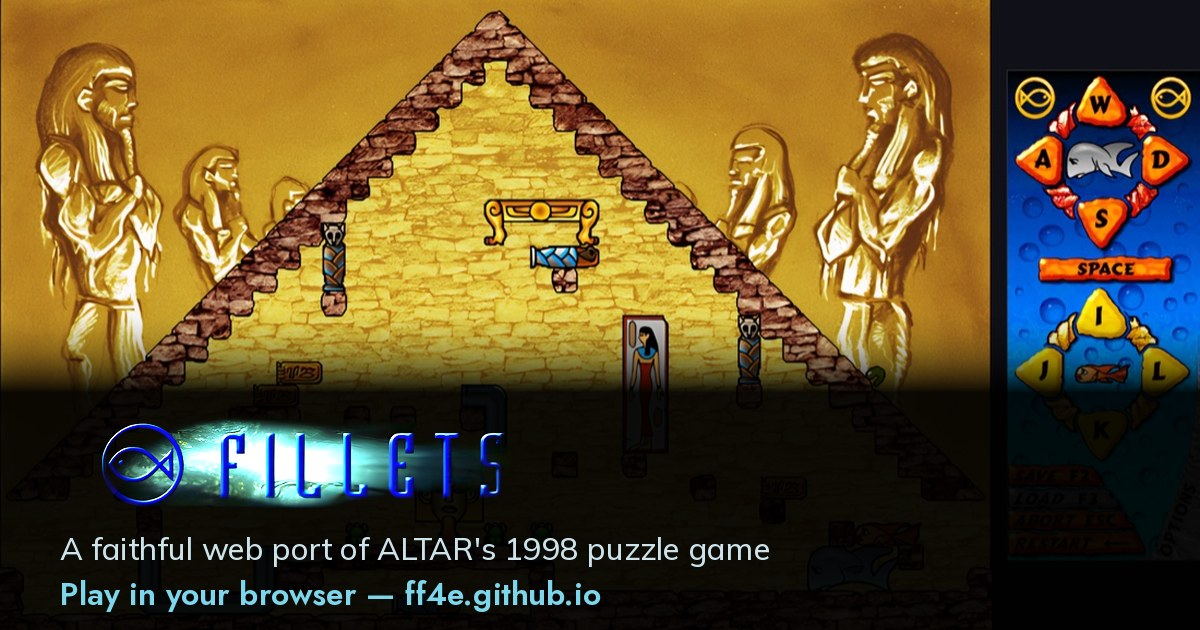
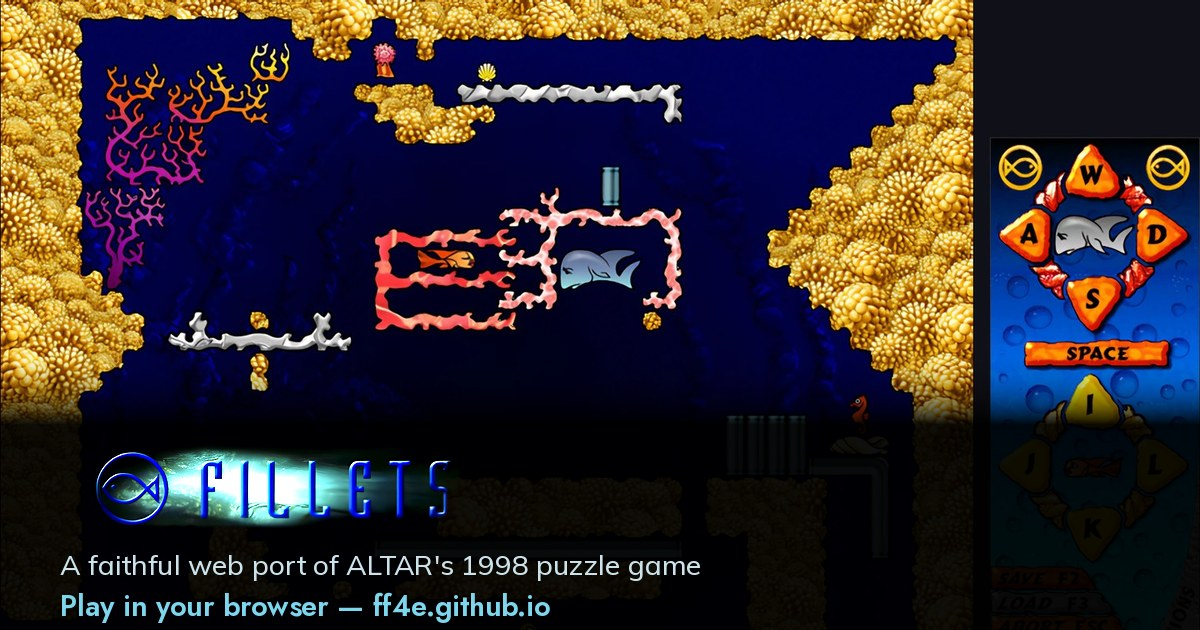
The card shows a room where you can see the fish
Mr. Cheops' House is the README's hero shot and it is the wrong picture for
this: the little fish is orange on gold brick and the big one is grey on
grey stone, so at the size a Discord or Slack embed actually renders, the
card was a nice drawing of a pyramid with no visible fish in it. The whole
job of this image is to say "two fish" in the half second before somebody
decides whether to click.

So the background is now "Imprisoned" (NCP, room 32): both fish sit
together in the middle of the room, shut inside the pink coral, against
flat navy. Nothing else in that room is fish-shaped, and nothing else is
that colour. Surveyed all 72 rooms at their spawn state to pick it.

Two consequences fall out of the room being 1.487:1 rather than the
pyramid's 1.852:1:

* ~22% of the height has to go, so the crop is anchored at the TOP rather
  than centred. The fish are in the upper middle and the bottom of the room
  is coral floor; a centred crop would spend the budget on the coral and
  push the fish down into the caption band.
* The band therefore starts lower (348 rather than 300) and the wordmark
  and captions are a little smaller, so nothing dark lands on the fish.

`docs/screenshots/room-ncp.jpg` is the source, captured the same way the
other screenshots were and downscaled to 1440 wide — still 1.2x the card,
so the card downsamples rather than stretching.

diff --git a/index.html b/index.html
@@ -24,7 +24,7 @@
     <meta property="og:image:type" content="image/jpeg" />
     <meta property="og:image:width" content="1200" />
     <meta property="og:image:height" content="630" />
-    <meta property="og:image:alt" content="Mr. Cheops' House: two fish among stone blocks inside a pyramid, beside the game's control panel." />
+    <meta property="og:image:alt" content="Imprisoned: the two fish shut inside a coral frame on the sea floor, beside the game's control panel." />
     <meta name="twitter:card" content="summary_large_image" />
     <meta name="twitter:title" content="Fish Fillets 4ever — the 1998 ALTAR puzzle game, in your browser" />
     <meta name="twitter:description" content="A faithful web port of Fish Fillets (ALTAR, 1998), ported from the original Delphi source. All 72 rooms, in a browser." />

diff --git a/tools/build-share-assets.py b/tools/build-share-assets.py
@@ -10,10 +10,11 @@ points `og:image` at the card and `<link rel=icon>` at the icons.
 
 Sources, both already in the repo and both descending from the GPL-released ALTAR data:
 
-  * docs/screenshots/room-pyramida.jpg — Mr. Cheops' House with the side panel, 1100x594.
-    Its aspect (1.852) is within 3% of the 1.91:1 the scrapers want, so it fits the card
-    by trimming 16 rows. That is the whole reason this screenshot is the background and a
-    bare room render is not: a 4:3 room letterboxed into 1.91:1 looks like a mistake.
+  * docs/screenshots/room-ncp.jpg — "Imprisoned" (NCP, room 32), 1440x969. The room is
+    chosen for ONE reason: both fish sit together in the middle of it, shut inside the pink
+    coral, against flat navy. The first version of this card used Mr. Cheops' House and the
+    fish vanished into the gold brick — at the size of a Discord embed a room is only worth
+    showing if the two fish read instantly, which is what the link is about.
   * public/cover.webp — the title-splash wordmark (fish-in-circle emblem + "FILLETS"),
     built by tools/build-cover.py from the credits logo and already committed with alpha.
     Reusing it keeps the card and the game's own splash the same mark.
@@ -35,7 +36,7 @@ from pathlib import Path
 from PIL import Image, ImageChops, ImageDraw, ImageFilter, ImageFont
 
 ROOT = Path(__file__).resolve().parent.parent
-SHOT = ROOT / "docs" / "screenshots" / "room-pyramida.jpg"
+SHOT = ROOT / "docs" / "screenshots" / "room-ncp.jpg"
 COVER = ROOT / "public" / "cover.webp"
 FONT_TEXT = ROOT / "public" / "fonts" / "Mulish.ttf"
 FONT_CTA = ROOT / "public" / "fonts" / "Jost.ttf"
@@ -63,18 +64,20 @@ def load_font(path: Path, size: int, weight: int) -> ImageFont.FreeTypeFont:
 
 def build_card() -> None:
     shot = Image.open(SHOT).convert("RGB")
-    # Cover-fit: scale so the short side reaches the card, then centre-crop the surplus.
-    scale = max(CARD_W / shot.width, CARD_H / shot.height)
-    shot = shot.resize((round(shot.width * scale), round(shot.height * scale)), Image.LANCZOS)
-    left = (shot.width - CARD_W) // 2
-    top = (shot.height - CARD_H) // 2
-    card = shot.crop((left, top, left + CARD_W, top + CARD_H))
+    # Fit the width and take the height off the BOTTOM, not off both edges. The room is
+    # 1.487:1 and the card is 1.91:1, so ~22% of the height has to go; the fish are in the
+    # upper-middle and the bottom is coral floor, so a centred crop would eat the top coral
+    # and push the fish down under the caption band. Anchoring at the top keeps them clear.
+    scale = CARD_W / shot.width
+    shot = shot.resize((CARD_W, round(shot.height * scale)), Image.LANCZOS)
+    card = shot.crop((0, 0, CARD_W, CARD_H))
 
     # A bottom-up black band, so the wordmark and the call to action sit on something dark
     # whatever the screenshot happens to be doing underneath them. It has to reach nearly
     # opaque, not merely dark: the wordmark is feathered into black rather than cut out, so
-    # over bright art any transparency here shows up as a rectangle around it.
-    band_top, band_full, band_max = 300, 392, 0.94
+    # over bright art any transparency here shows up as a rectangle around it. It starts
+    # below the fish on purpose — see the crop above.
+    band_top, band_full, band_max = 348, 424, 0.94
     shade = Image.new("L", (1, CARD_H), 0)
     for y in range(band_top, CARD_H):
         t = min(1.0, (y - band_top) / (band_full - band_top))
@@ -84,7 +87,7 @@ def build_card() -> None:
     # ...and pasted with a lighten, which is the same trick #intro-cover uses on its black
     # backdrop: black source pixels leave the card alone, so nothing boxes the mark in.
     cover = Image.open(COVER).convert("RGBA")
-    mark_w = 500
+    mark_w = 440
     mark_h = round(cover.height * mark_w / cover.width)
     small = cover.resize((mark_w, mark_h), Image.LANCZOS)
     mark = Image.new("RGB", (mark_w, mark_h), (0, 0, 0))
@@ -92,14 +95,14 @@ def build_card() -> None:
     # Lifted, because the wordmark was drawn to glow out of a pure-black splash screen and
     # the band behind it here is not pure black. Without this the darkest letters sink.
     mark = mark.point(lambda v: min(255, round(v * 1.45)))
-    box = (56, 396, 56 + mark_w, 396 + mark_h)
+    box = (56, 428, 56 + mark_w, 428 + mark_h)
     card.paste(ImageChops.lighter(card.crop(box), mark), box)
 
     draw = ImageDraw.Draw(card)
-    draw.text((60, 528), "A faithful web port of ALTAR's 1998 puzzle game",
-              font=load_font(FONT_TEXT, 31, 500), fill=(205, 227, 236))
-    draw.text((60, 570), "Play in your browser — ff4e.github.io",
-              font=load_font(FONT_CTA, 32, 600), fill=(126, 214, 236))
+    draw.text((60, 546), "A faithful web port of ALTAR's 1998 puzzle game",
+              font=load_font(FONT_TEXT, 28, 500), fill=(205, 227, 236))
+    draw.text((60, 584), "Play in your browser — ff4e.github.io",
+              font=load_font(FONT_CTA, 29, 600), fill=(126, 214, 236))
 
     card.save(CARD, "JPEG", quality=88, optimize=True, progressive=True)
     print(f"wrote {CARD.relative_to(ROOT)} ({CARD_W}x{CARD_H}, {CARD.stat().st_size // 1024} kB)")
